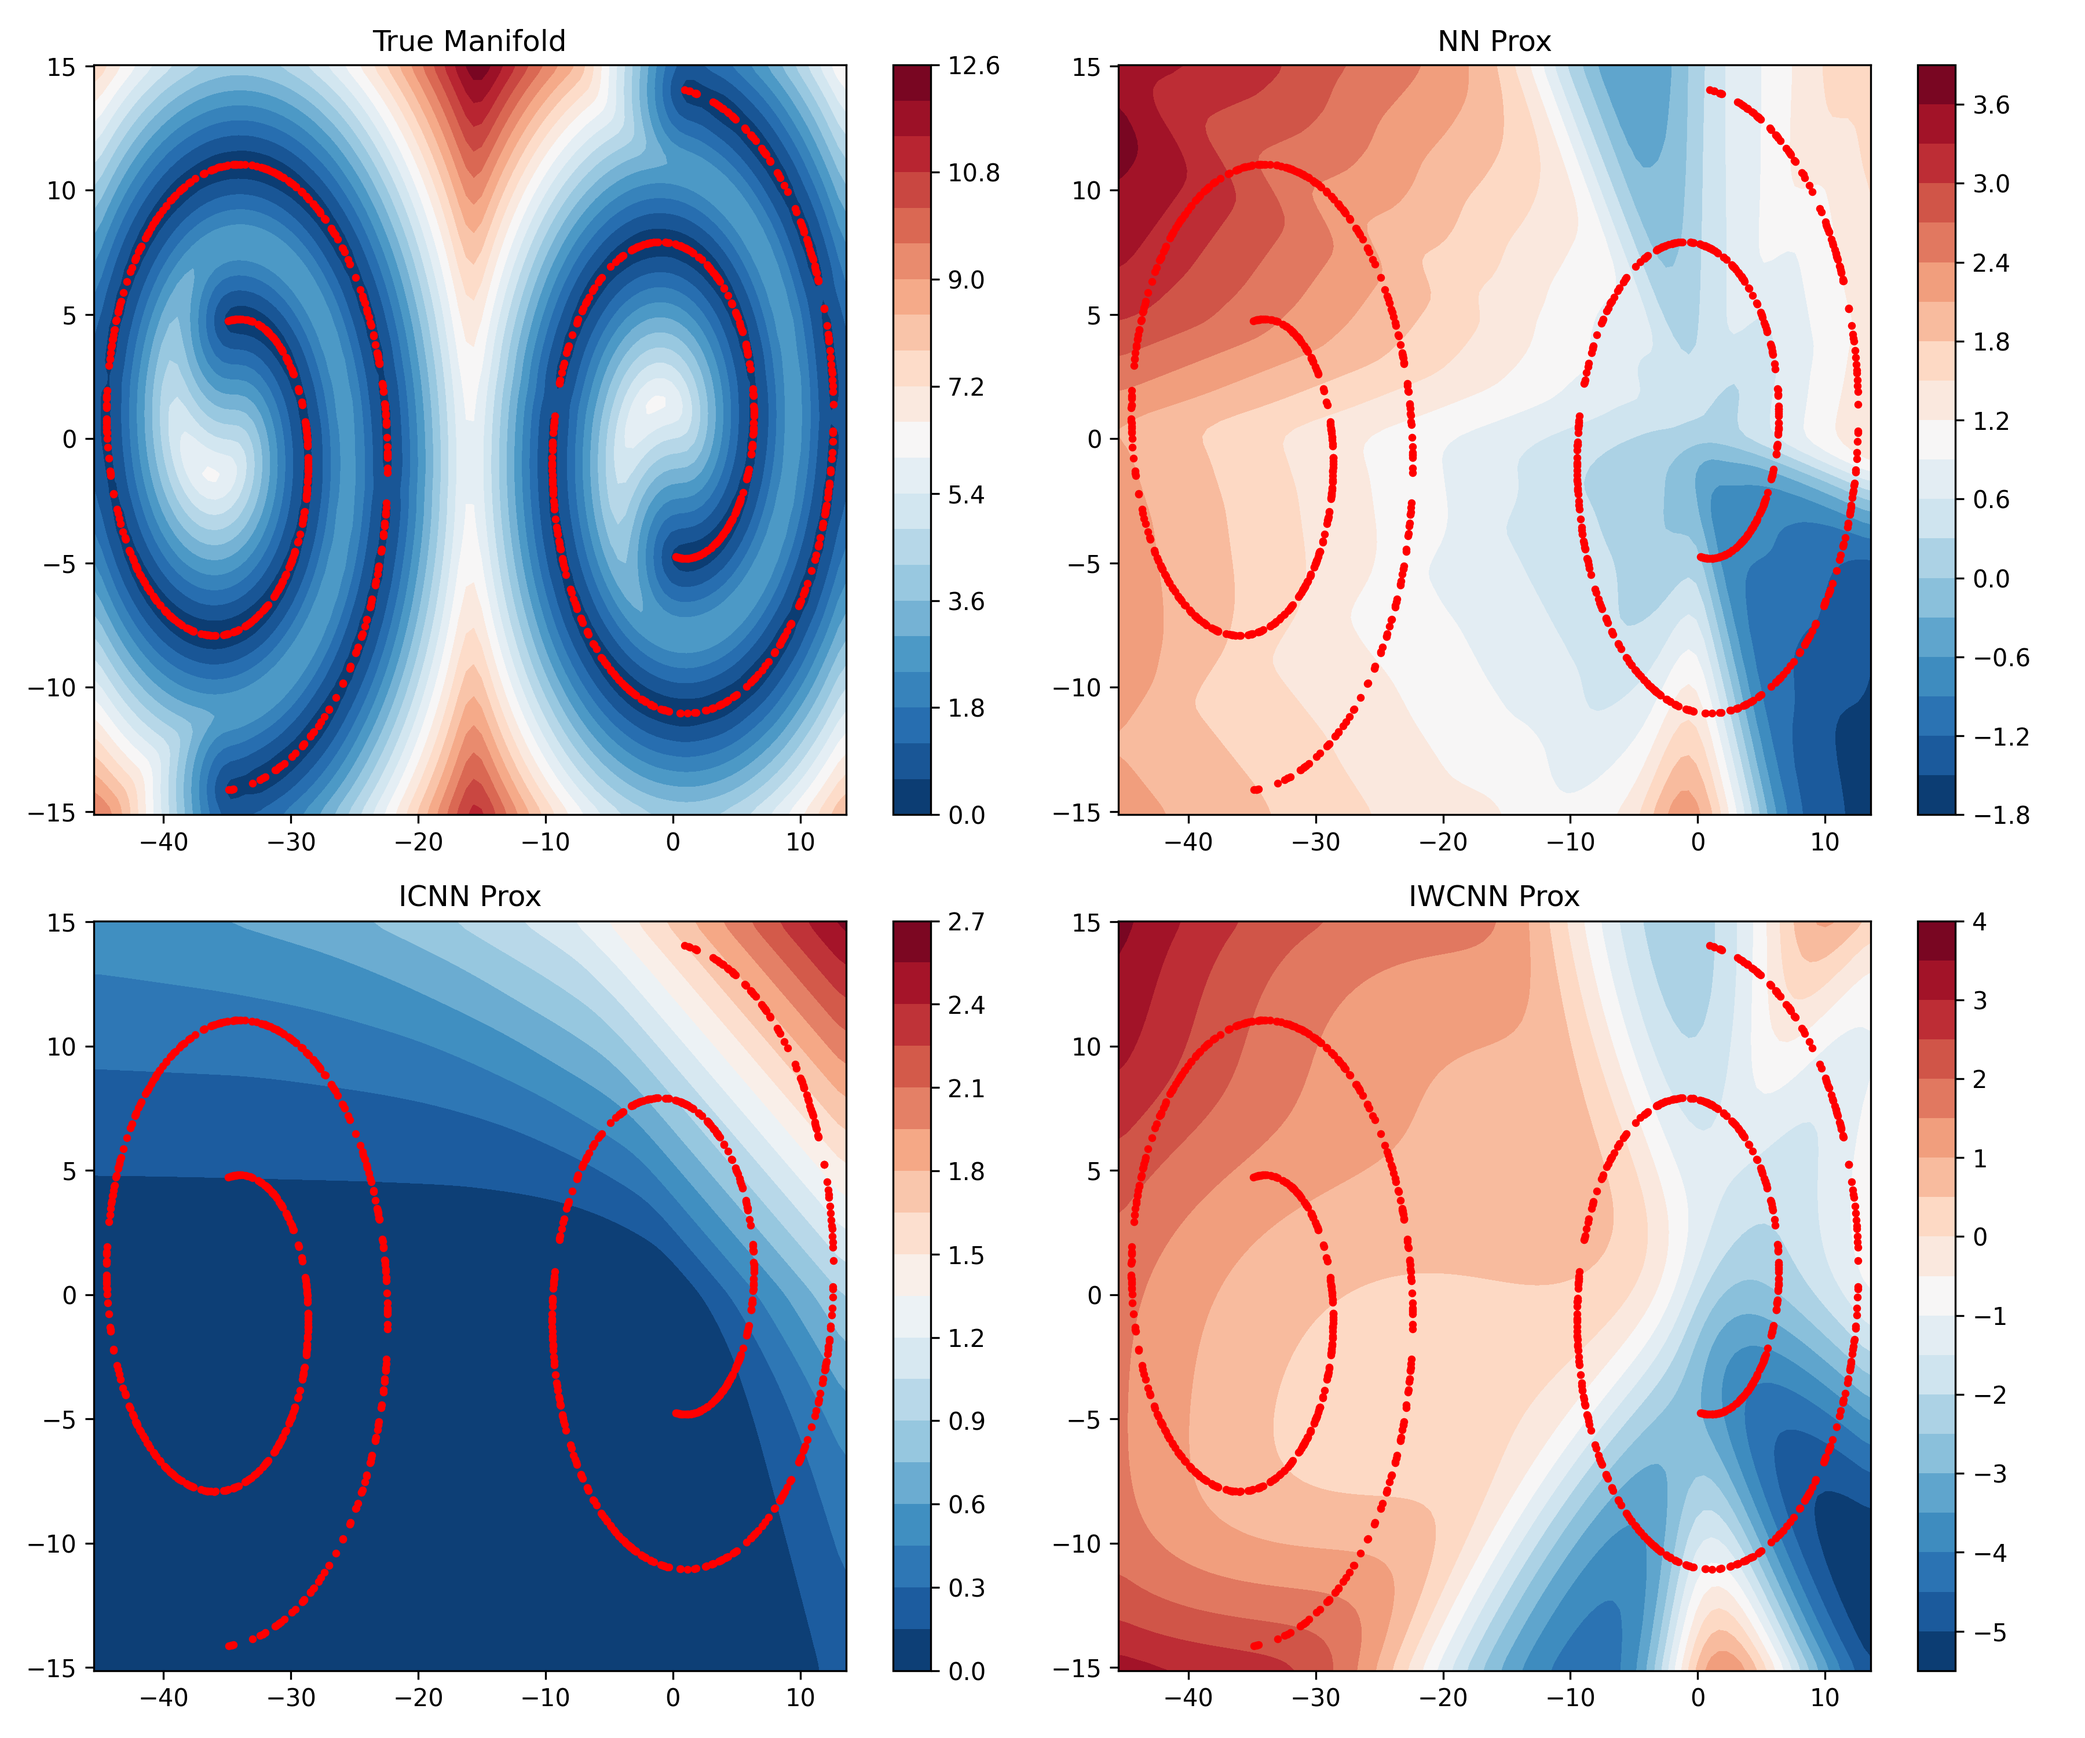
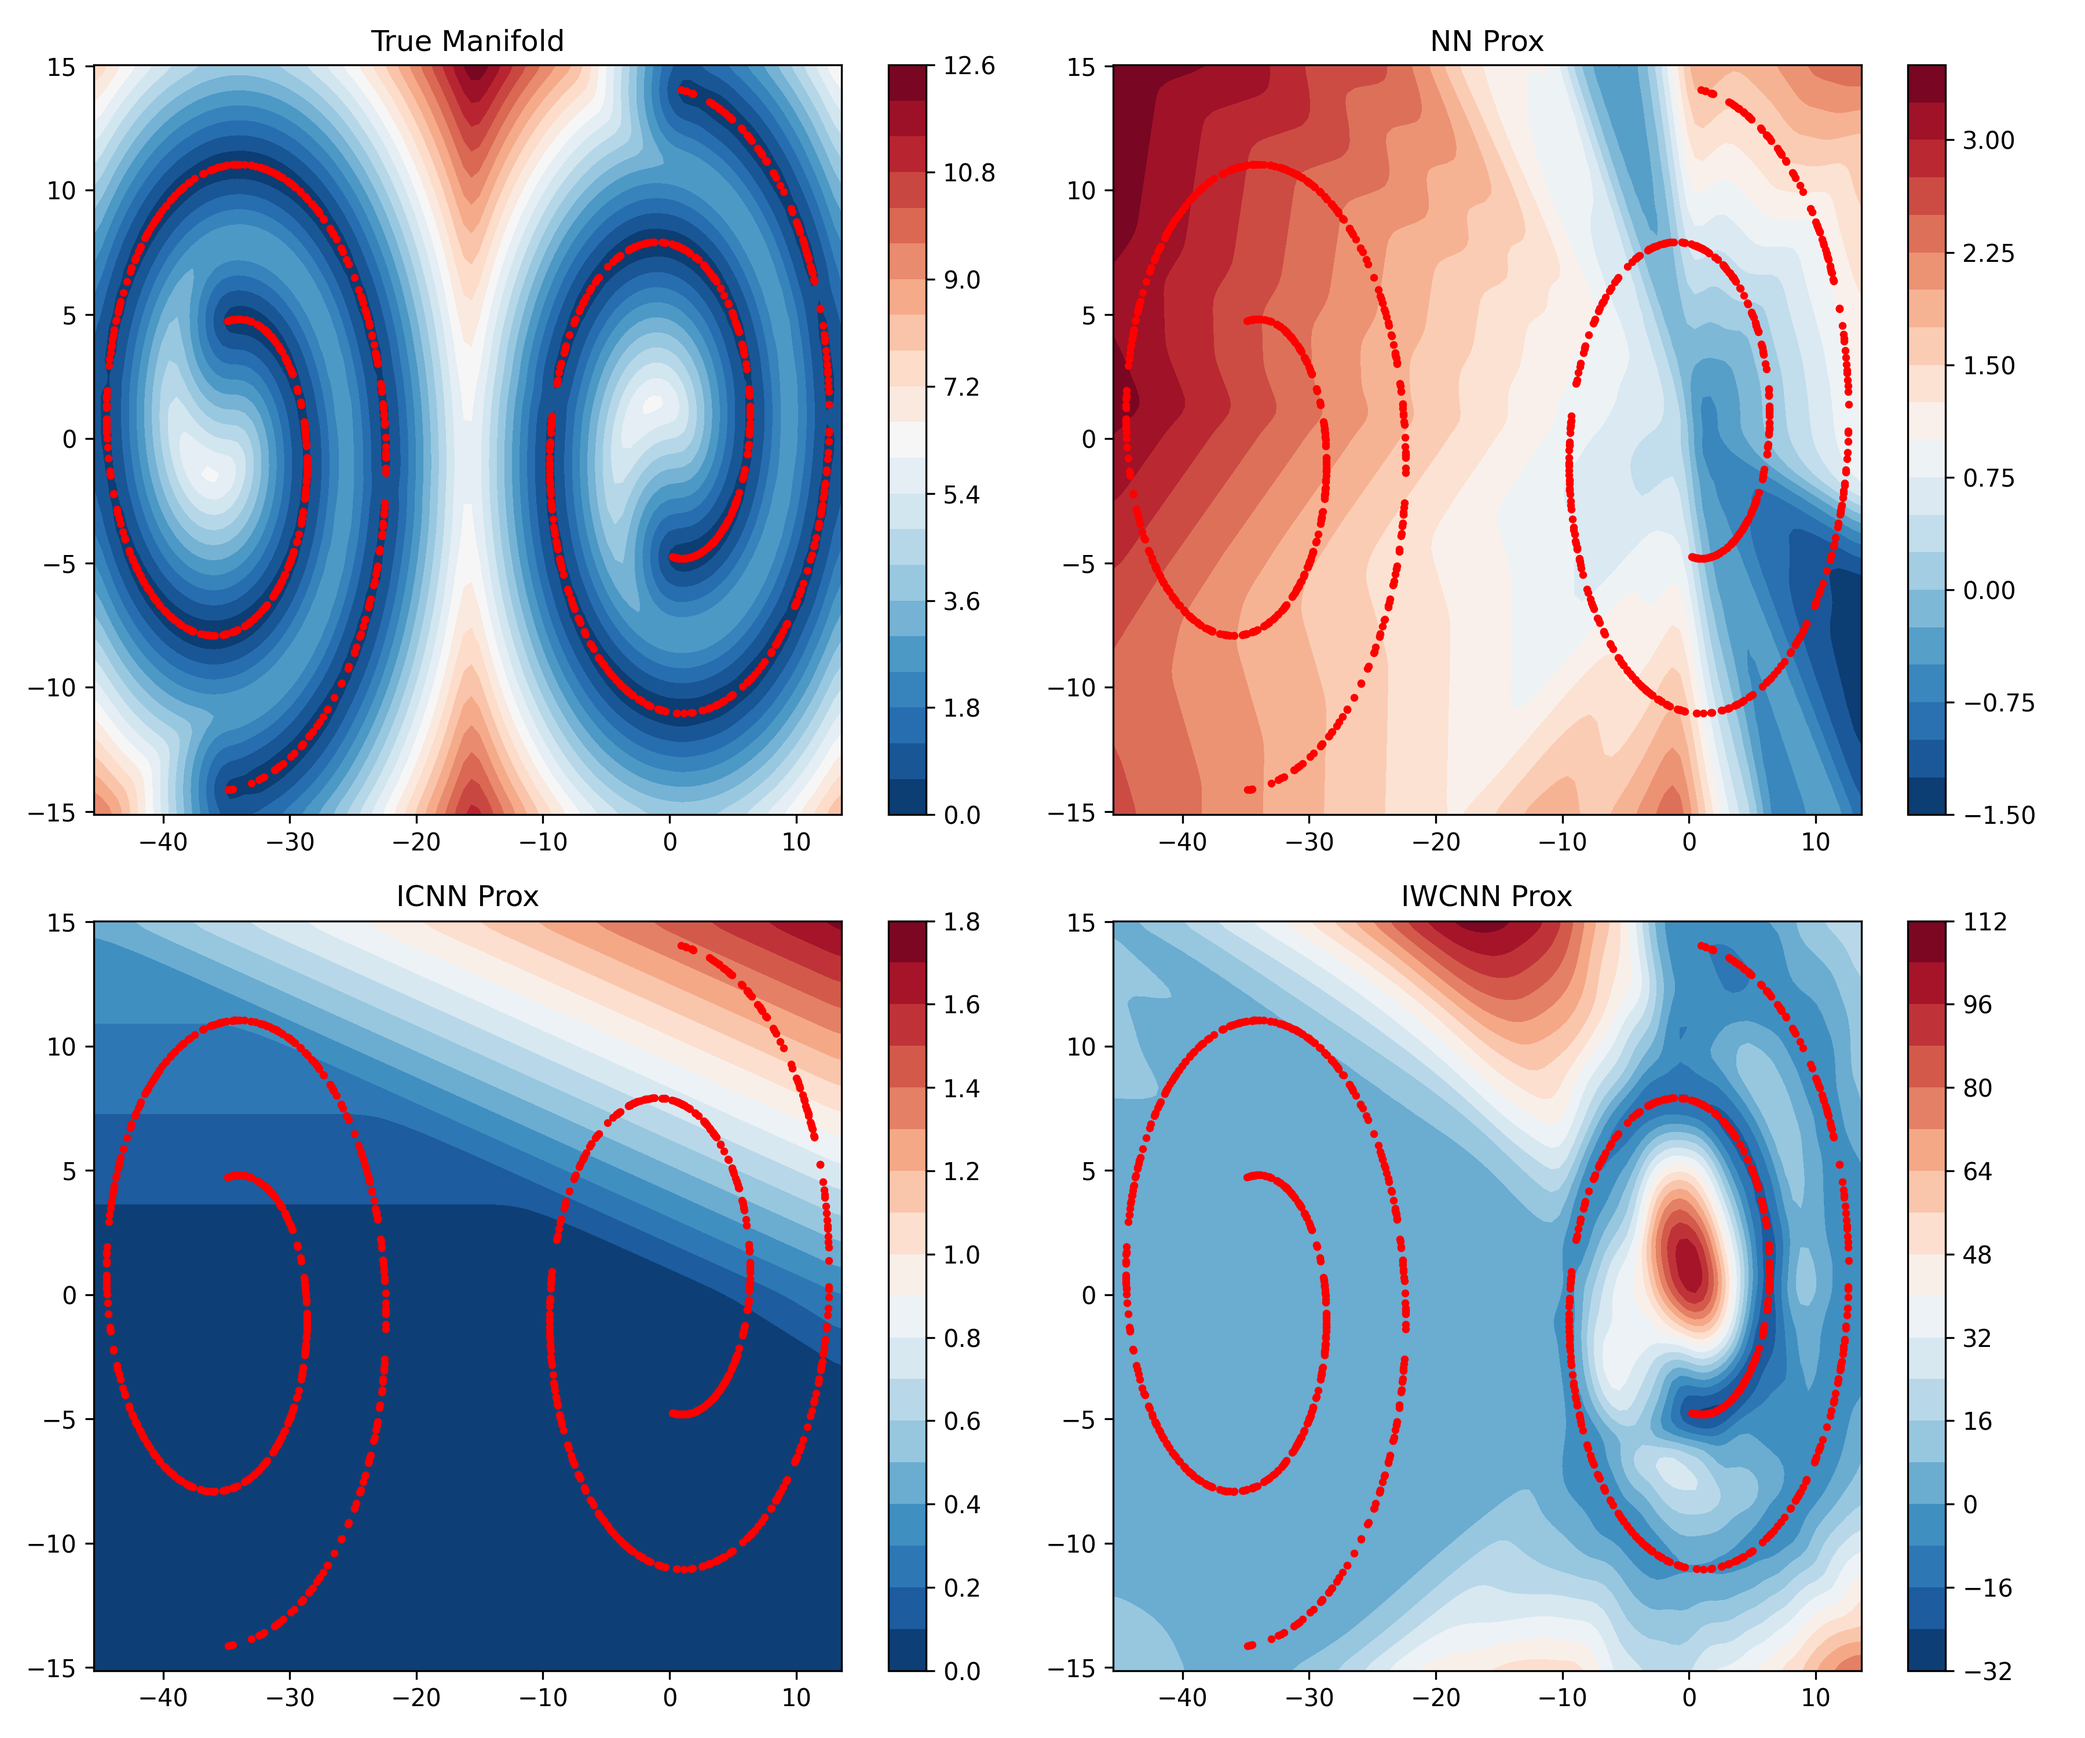
Adjust learning rate and epochs to get better result than before

diff --git a/2d_swiss_roll.py b/2d_swiss_roll.py
@@ -126,9 +126,9 @@ reg_model = Regularizer()
 icnn_model = ICNN()
 iwcnn_model = IWCNN()
 
-reg_model = train_with_prox(reg_model, X, X_noisy, alpha=0.1, epochs=100, lr=1e-3, model_name='NN')
-icnn_model = train_with_prox(icnn_model, X, X_noisy, alpha=0.1, epochs=100, lr=1e-3, model_name='ICNN')
-iwcnn_model = train_with_prox(iwcnn_model, X, X_noisy, alpha=0.1, epochs=100, lr=1e-3, model_name='IWCNN')
+reg_model = train_with_prox(reg_model, X, X_noisy, alpha=0.1, epochs=500, lr=1e-2, model_name='NN')
+icnn_model = train_with_prox(icnn_model, X, X_noisy, alpha=0.1, epochs=500, lr=1e-2, model_name='ICNN')
+iwcnn_model = train_with_prox(iwcnn_model, X, X_noisy, alpha=0.1, epochs=1000, lr=1e-2, model_name='IWCNN')
 
 # Visualization
 x_min, x_max = X[:,0].min()-1, X[:,0].max()+1

diff --git a/README.md b/README.md
@@ -78,7 +78,7 @@ This approach allows differentiability through the prox steps, enabling end-to-e
 ### 4.3 Optimisation Method
 
 * Optimiser: Adam
-* Learning rate: typically $1 \times 10^{-3}$
+* Learning rate: typically $1 \times 10^{-2}$
 * Proximal operator steps: 10 unrolled gradient steps with fixed step size
 
 ### 4.4 Loss Function and Metrics
@@ -104,7 +104,6 @@ This approach allows differentiability through the prox steps, enabling end-to-e
   * Loss curves: total loss and MSE.
   * Model names: 'NN', 'ICNN', 'IWCNN'.
   * Hyperparameters: $\alpha$, learning rate, epochs.
-  * Optional: weight histograms and gradient tracking.
 
 ## 6. Visualisation
 ![Swiss Roll Regularisation Comparison](swiss_roll_result.png)
@@ -122,4 +121,3 @@ This approach allows differentiability through the prox steps, enabling end-to-e
 
 ---
 
-This document serves as a concise technical reference for current work and ongoing discussion.
